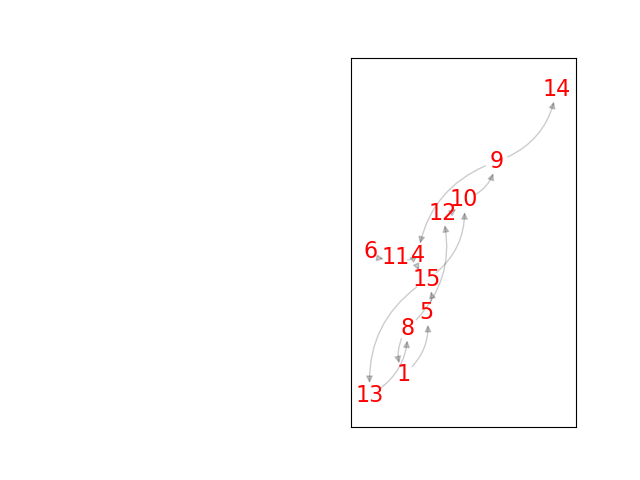
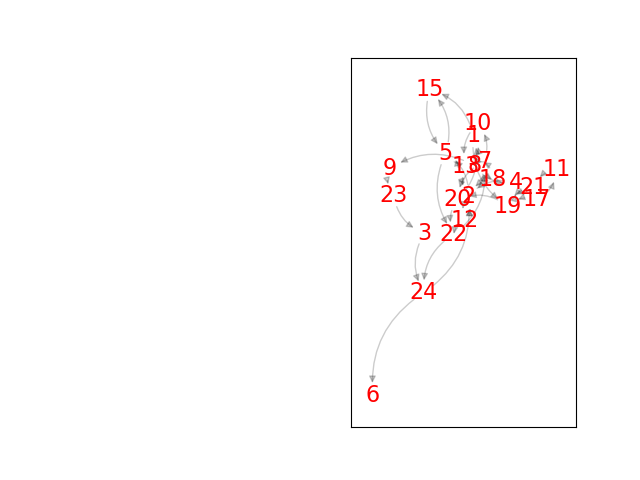
add mutate

diff --git a/GeneticAlgorithmTSP.py b/GeneticAlgorithmTSP.py
@@ -4,6 +4,7 @@ import Graph_directed
 import math
 #import Graph
 import random
+import matplotlib.pyplot as plt
 
 def map_to_char(num):
     return chr(int(num)+97)
@@ -26,6 +27,7 @@ class GeneticAlgorithmTSP:
         self.elitismRate = elitismRate
     
     def optimize(self, graph):
+        self.graph = graph
         # list_nodes = list(graph.sfc)
         # list_nodes.remove(graph.start)
         # list_nodes.remove(graph.end)
@@ -38,15 +40,19 @@ class GeneticAlgorithmTSP:
             raise ValueError('Elitism Rate must be in [0,1].')
         
         # print ('Optimizing TSP Route for Graph:\n{0}'.format(graph))
-
+        fitness_plot = []
+        generation_plot = []
         for generation in range(self.generations):
             print ('\nGeneration: {0}'.format(generation + 1))
             # print ('Population: {0}'.format(population))
             
             newPopulation = []            
             fitness = self.__computeFitness(graph, population)
+            fitness_plot.append(np.mean(fitness))
+            generation_plot.append(generation + 1)
             print ('Fitness:    {0}'.format(fitness))
             fittest = np.argmin(fitness)
+
 
             print ('Fittest Route: {0} ({1})'.format(map_string_to_list(population[fittest]), fitness[fittest]))
             
@@ -75,7 +81,7 @@ class GeneticAlgorithmTSP:
                 print ('\nConverged to a local minima.', end='')
                 break
 
-        return (population[fittest], fitness[fittest])
+        return (population[fittest], fitness[fittest],generation_plot,fitness_plot)
 
 
     def __makePopulation(self, sfc_nodes):
@@ -110,13 +116,14 @@ class GeneticAlgorithmTSP:
     #     return ''.join(v for v in offspring) 
 
 
-    def __mutate(self, genome):
-        if np.random.random() < self.mutationRate:
-            index_low, index_high = self.__computeLowHighIndexes(genome)
-            return self.__swap(index_low, index_high-1, genome)
+    def __mutate(self,genome):
+        if np.random.random() < 1:
+            index_mutate = random.randint(1,len(genome)-2)
+            sfc_mutate = self.graph.sfc[index_mutate]
+            mutated = random.choice(sfc_mutate)
+            return genome[:index_mutate] + mutated + genome[index_mutate+1:]
         else:
             return genome
-
 
     def __computeLowHighIndexes(self, string):
         index_low = np.random.randint(1, len(string)-2)
@@ -154,7 +161,7 @@ if __name__ == '__main__':
     graph.setAdjacent('d', 'e', 6)
 
 
-    ga_tsp = GeneticAlgorithmTSP(generations=10, population_size=100, tournamentSize=2, mutationRate=0.2, elitismRate=0.1)
+    ga_tsp = GeneticAlgorithmTSP(generations=100, population_size=1000, tournamentSize=2, mutationRate=0.2, elitismRate=0.1)
     
     optimal_path, path_cost = ga_tsp.optimize(graph)
     print ('\nPath: {0}, Cost: {1}'.format(optimal_path, path_cost))

diff --git a/main.py b/main.py
@@ -177,7 +177,7 @@ if __name__ == '__main__':
     # generate_data_txt(25,100,50,'random.txt')
     input_graph = Graph({})
     sfc = []
-    with open("index_1.txt","r") as f:
+    with open("random.txt","r") as f:
         n,m = int_data(f.readline().split())
         for _ in range(m):
             a,b,c = f.readline().split()
@@ -236,9 +236,13 @@ if __name__ == '__main__':
     sfc_graph.start = start
     sfc_graph.end = finish
     sfc_graph.sfc = sfc
-    ga_tsp = GeneticAlgorithmTSP(generations=100, population_size=100, tournamentSize=2, mutationRate=0, elitismRate=0.1)
+    ga_tsp = GeneticAlgorithmTSP(generations=100, population_size=100, tournamentSize=2, mutationRate=0.1, elitismRate=0.1)
 
-    optimal_path, path_cost = ga_tsp.optimize(sfc_graph)
+    optimal_path, path_cost , generation_plot,fitness_plot = ga_tsp.optimize(sfc_graph)
+    # print (fitness_plot)
+    plt.plot(generation_plot,fitness_plot)
+    plt.show()
+    plt.savefig("output/convert.png", format="PNG")
     fullpath = full_path(optimal_path,dijsktra_way)
     
     print ('\nPath: {0}, Cost: {1}'.format(map_string_to_list(optimal_path), path_cost))
